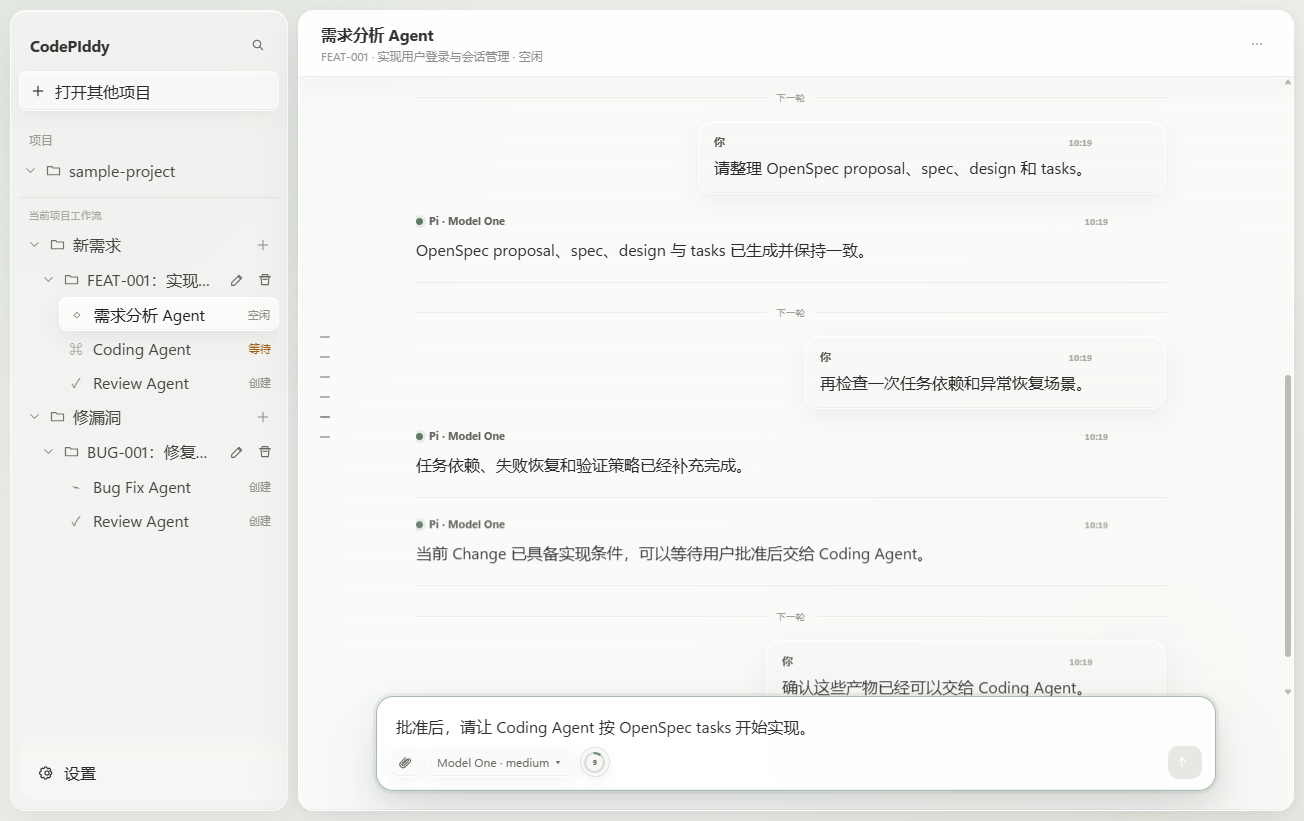
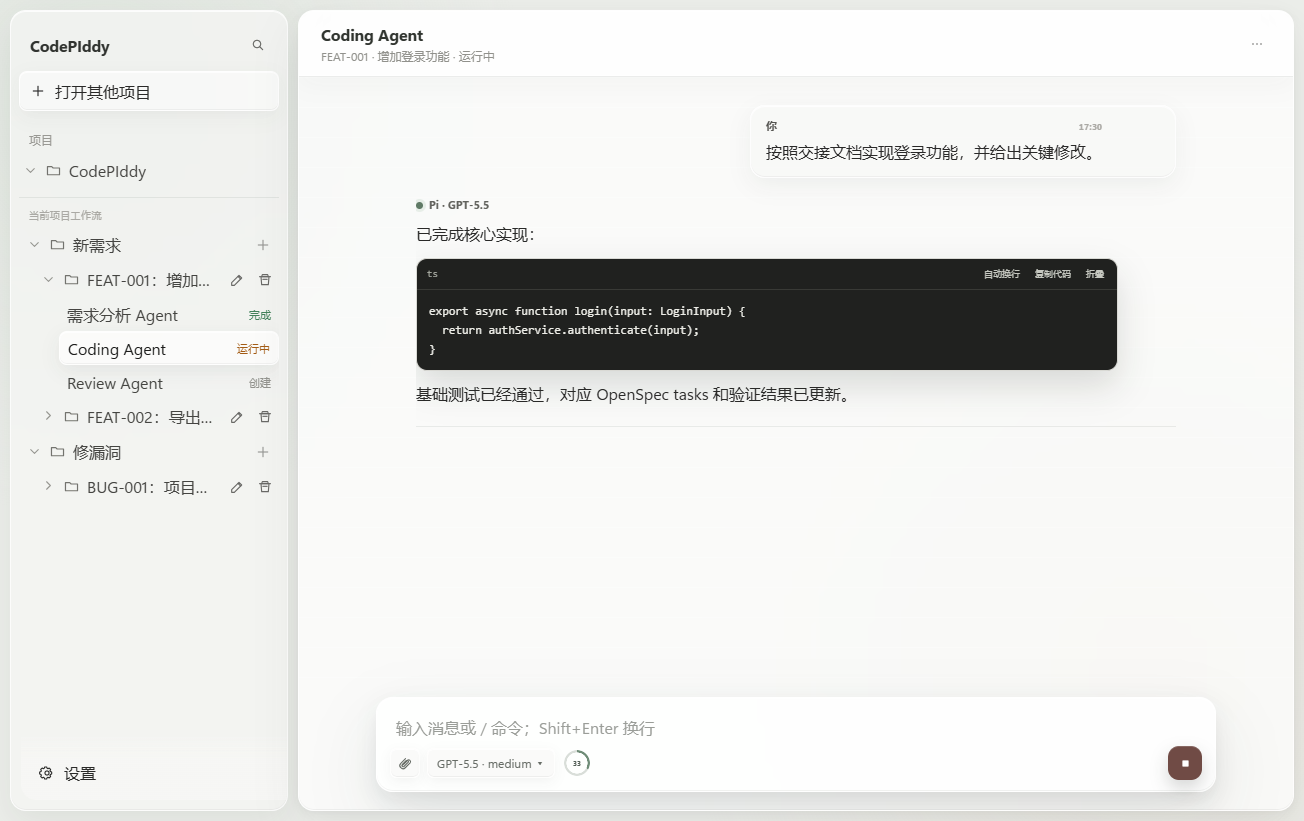
docs: refresh CodePIddy interface screenshots

diff --git a/README.md b/README.md
@@ -87,13 +87,15 @@ CodePIddy 不再要求固定的 `requirement.md`、`implementation.md`、`fix.md
 <table>
   <tr>
     <td width="50%"><img src="docs/images/codepiddy-agent.png" alt="Agent 对话、上下文与模型控制" /></td>
-    <td width="50%"><img src="docs/images/codepiddy-settings.png" alt="按 Agent 类型配置内置 Skill" /></td>
+    <td width="50%"><img src="docs/images/codepiddy-settings.png" alt="Pi 运行时更新、版本回退与全局权限" /></td>
   </tr>
   <tr>
     <td align="center"><strong>长期 Agent 会话、上下文、模型与工具状态</strong></td>
-    <td align="center"><strong>按 Agent 类型启用或停用内置 Skill</strong></td>
+    <td align="center"><strong>Pi 版本管理与全局权限</strong></td>
   </tr>
 </table>
+
+以上截图来自隔离的演示项目，不包含真实项目文件、API Key 或私人会话。
 
 界面使用原有中性色调，并通过半透明、背景模糊、内高光和多层阴影增加层次。目标是保持长时间编程时的低干扰，同时让项目、工作项、Agent、权限和运行状态清晰可见。
 
